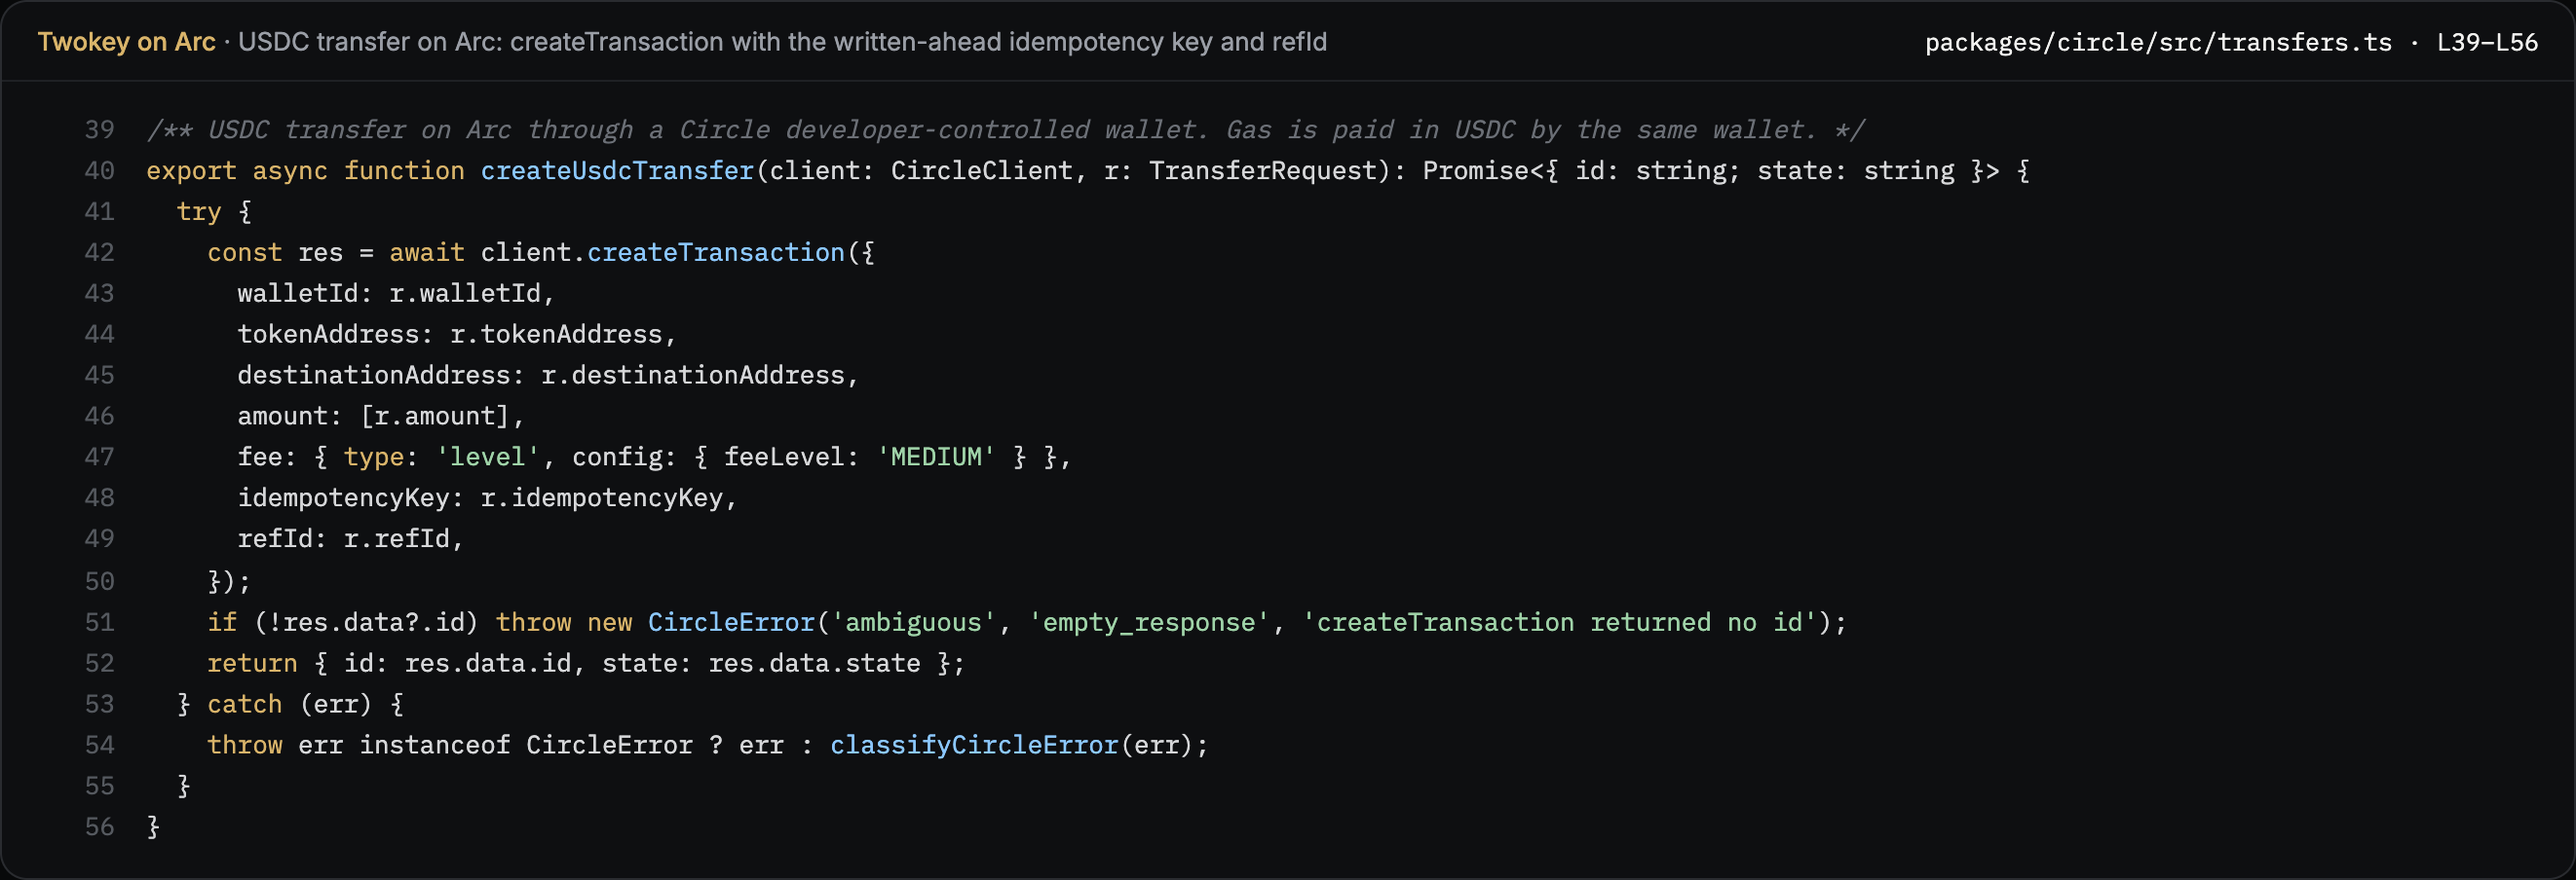
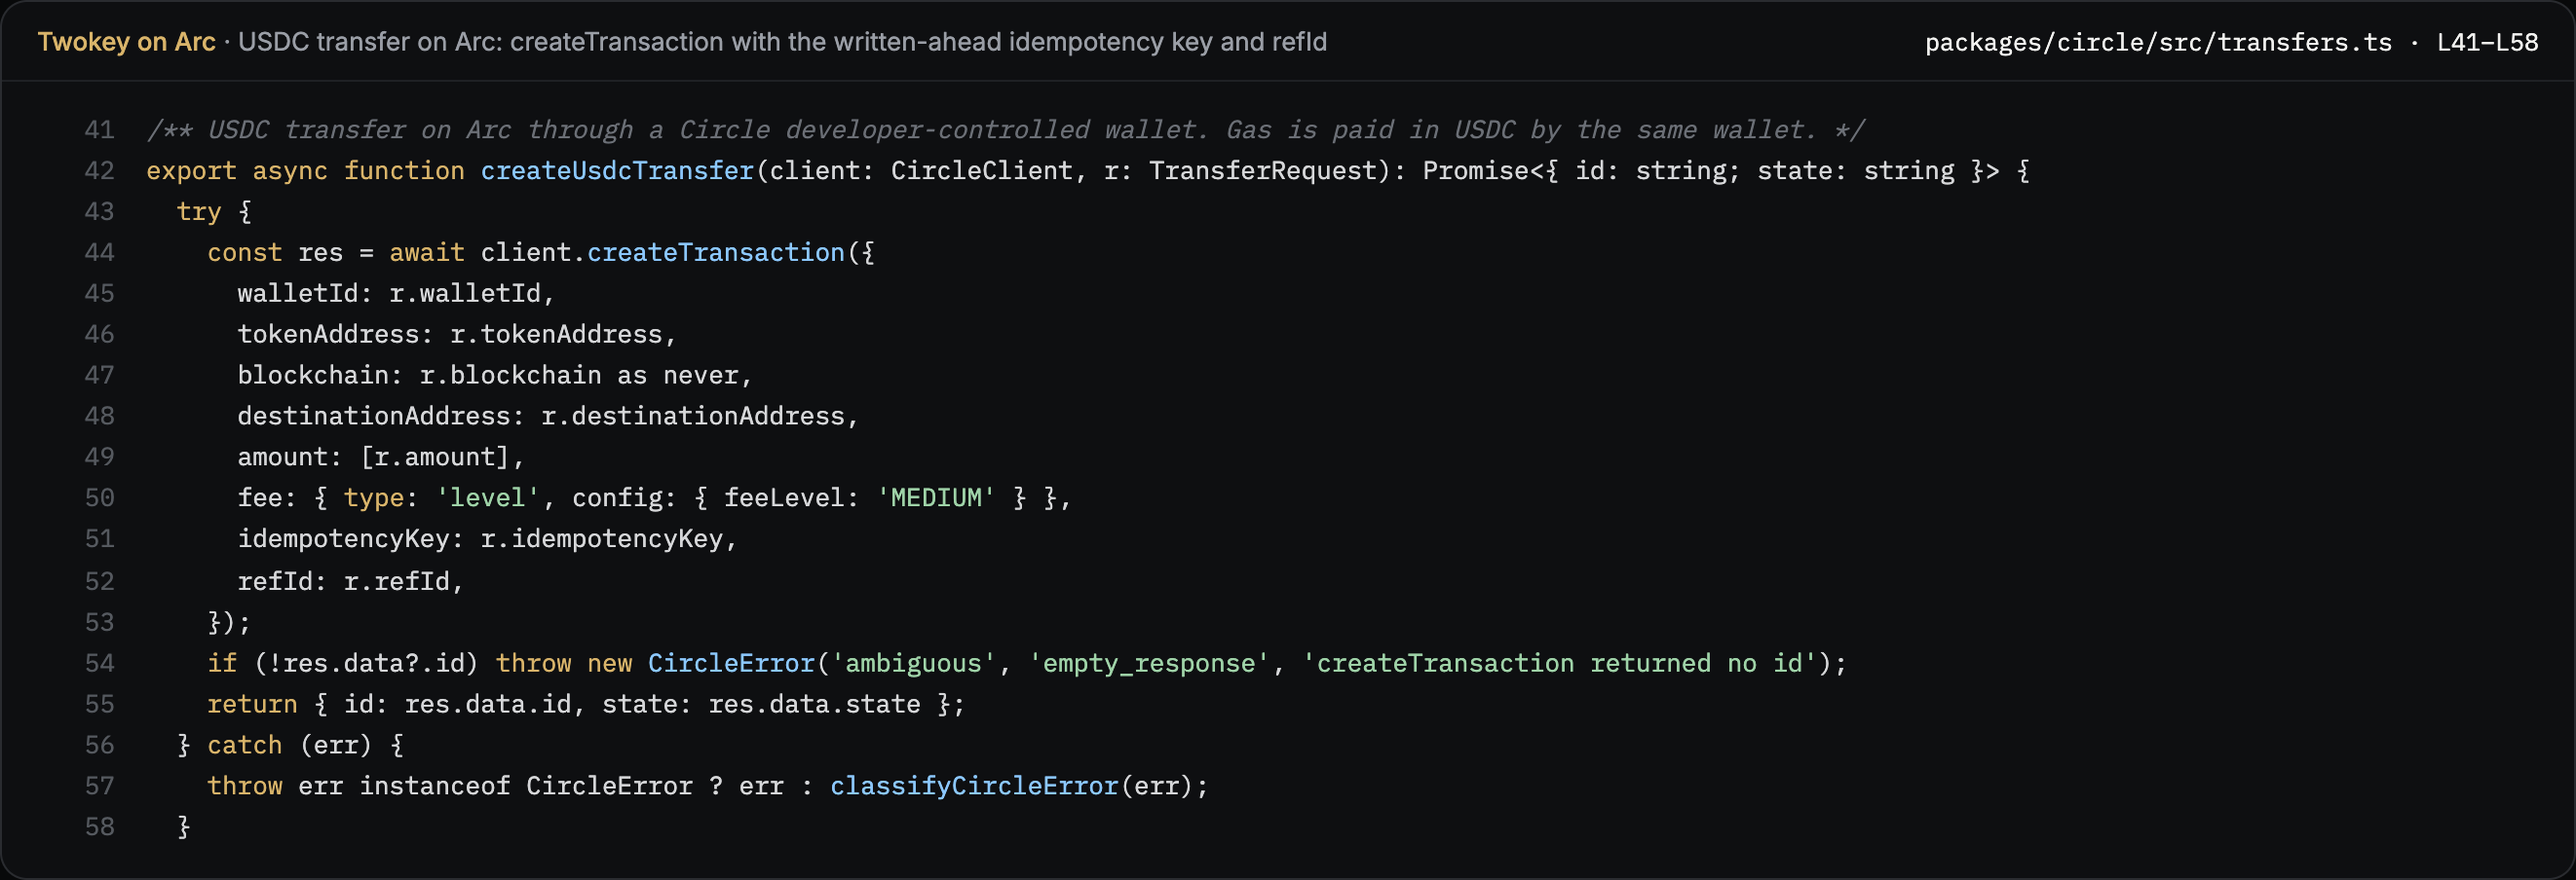
docs: live Arc Testnet evidence (smoke, demo-run x3, chaos), verify register, submission draft; regenerated transcript and shots

diff --git a/docs/CIRCLE_TRANSCRIPT.md b/docs/CIRCLE_TRANSCRIPT.md
@@ -6,7 +6,7 @@ Twokey is an approval layer for AI agents that move USDC. In this demo an accoun
 |---|---|---|
 | **Arc Testnet** (chain `5042002`) | The settlement rail for every payment. Gas is paid in USDC, and with sub-second finality a `COMPLETE` transfer is final, which the audit log records. | [`packages/circle/src/config.ts` L4–L11](https://github.com/PrabalParihar/twokey-arc/blob/main/packages/circle/src/config.ts#L4-L11) (chain id, `ARC-TESTNET`, RPC, explorer)<br>[`packages/circle/src/config.ts` L28–L38](https://github.com/PrabalParihar/twokey-arc/blob/main/packages/circle/src/config.ts#L28-L38) (testnet-only guard)<br>[`apps/web/lib/explorer.ts` L3](https://github.com/PrabalParihar/twokey-arc/blob/main/apps/web/lib/explorer.ts#L3) (explorer links) |
 | **USDC on Arc** (`0x3600…0000`, 6-dp ERC-20 view) | The asset being paid and also the gas token. Twokey reads one balance and never adds the 18-dp native view to the 6-dp ERC-20 view. | [`packages/money/src/usdc.ts` L10](https://github.com/PrabalParihar/twokey-arc/blob/main/packages/money/src/usdc.ts#L10) (address)<br>[`packages/money/src/usdc.ts` L28–L35](https://github.com/PrabalParihar/twokey-arc/blob/main/packages/money/src/usdc.ts#L28-L35) (exact 6-dp parsing, no floats)<br>[`packages/circle/src/balances.ts` L14–L19](https://github.com/PrabalParihar/twokey-arc/blob/main/packages/circle/src/balances.ts#L14-L19) (one balance, one view)<br>[`packages/circle/src/units.ts` L10–L17](https://github.com/PrabalParihar/twokey-arc/blob/main/packages/circle/src/units.ts#L10-L17) (Circle fee → 6 dp, rounded up) |
-| **Circle Wallets: developer-controlled wallets** (`@circle-fin/developer-controlled-wallets` 10.8.1) | The treasury wallet the agent pays from. The wallet set and wallets are created on `ARC-TESTNET`. Transfers go through `createTransaction` with an idempotency key written ahead, status through `getTransaction`, balance through `getWalletTokenBalance`, and reconciliation through `listTransactions`. Only the executor holds the credentials. | [`packages/circle/src/client.ts` L9–L19](https://github.com/PrabalParihar/twokey-arc/blob/main/packages/circle/src/client.ts#L9-L19) (`initiateDeveloperControlledWalletsClient`)<br>[`scripts/circle-setup.ts` L16](https://github.com/PrabalParihar/twokey-arc/blob/main/scripts/circle-setup.ts#L16) (`createWalletSet`)<br>[`scripts/circle-setup.ts` L20–L26](https://github.com/PrabalParihar/twokey-arc/blob/main/scripts/circle-setup.ts#L20-L26) (`createWallets` on `ARC-TESTNET`, EOA)<br>[`packages/circle/src/transfers.ts` L40–L56](https://github.com/PrabalParihar/twokey-arc/blob/main/packages/circle/src/transfers.ts#L40-L56) (`createTransaction` with USDC, `idempotencyKey`, `refId`)<br>[`packages/circle/src/transfers.ts` L90–L99](https://github.com/PrabalParihar/twokey-arc/blob/main/packages/circle/src/transfers.ts#L90-L99) (`getTransaction`)<br>[`packages/circle/src/transfers.ts` L102–L115](https://github.com/PrabalParihar/twokey-arc/blob/main/packages/circle/src/transfers.ts#L102-L115) (`listTransactions` for reconcile)<br>[`packages/circle/src/transfers.ts` L118–L130](https://github.com/PrabalParihar/twokey-arc/blob/main/packages/circle/src/transfers.ts#L118-L130) (`estimateTransferFee`)<br>[`packages/circle/src/balances.ts` L21–L24](https://github.com/PrabalParihar/twokey-arc/blob/main/packages/circle/src/balances.ts#L21-L24) (`getWalletTokenBalance`)<br>[`apps/executor/src/circle-port.ts` L14–L26](https://github.com/PrabalParihar/twokey-arc/blob/main/apps/executor/src/circle-port.ts#L14-L26) (the executor-only adapter) |
+| **Circle Wallets: developer-controlled wallets** (`@circle-fin/developer-controlled-wallets` 10.8.1) | The treasury wallet the agent pays from. The wallet set and wallets are created on `ARC-TESTNET`. Transfers go through `createTransaction` with an idempotency key written ahead, status through `getTransaction`, balance through `getWalletTokenBalance`, and reconciliation through `listTransactions`. Only the executor holds the credentials. | [`packages/circle/src/client.ts` L9–L19](https://github.com/PrabalParihar/twokey-arc/blob/main/packages/circle/src/client.ts#L9-L19) (`initiateDeveloperControlledWalletsClient`)<br>[`scripts/circle-setup.ts` L16](https://github.com/PrabalParihar/twokey-arc/blob/main/scripts/circle-setup.ts#L16) (`createWalletSet`)<br>[`scripts/circle-setup.ts` L20–L26](https://github.com/PrabalParihar/twokey-arc/blob/main/scripts/circle-setup.ts#L20-L26) (`createWallets` on `ARC-TESTNET`, EOA)<br>[`packages/circle/src/transfers.ts` L42–L59](https://github.com/PrabalParihar/twokey-arc/blob/main/packages/circle/src/transfers.ts#L42-L59) (`createTransaction` with USDC, `idempotencyKey`, `refId`)<br>[`packages/circle/src/transfers.ts` L93–L102](https://github.com/PrabalParihar/twokey-arc/blob/main/packages/circle/src/transfers.ts#L93-L102) (`getTransaction`)<br>[`packages/circle/src/transfers.ts` L108–L123](https://github.com/PrabalParihar/twokey-arc/blob/main/packages/circle/src/transfers.ts#L108-L123) (`listTransactions` for reconcile)<br>[`packages/circle/src/transfers.ts` L126–L139](https://github.com/PrabalParihar/twokey-arc/blob/main/packages/circle/src/transfers.ts#L126-L139) (`estimateTransferFee`)<br>[`packages/circle/src/balances.ts` L21–L24](https://github.com/PrabalParihar/twokey-arc/blob/main/packages/circle/src/balances.ts#L21-L24) (`getWalletTokenBalance`)<br>[`apps/executor/src/circle-port.ts` L14–L26](https://github.com/PrabalParihar/twokey-arc/blob/main/apps/executor/src/circle-port.ts#L14-L26) (the executor-only adapter) |
 | **The guard in front of Circle** | Before any `createTransaction` runs, the executor takes the org lock, reads a fresh balance from Circle, classifies the payment a third time, rebuilds and re-verifies the approval seal, and commits the attempt row with its idempotency key. Only then does it call Circle. | [`packages/core/src/executor.ts` L90–L182](https://github.com/PrabalParihar/twokey-arc/blob/main/packages/core/src/executor.ts#L90-L182) (re-classify + seal check + write-ahead)<br>[`packages/core/src/executor.ts` L185–L235](https://github.com/PrabalParihar/twokey-arc/blob/main/packages/core/src/executor.ts#L185-L235) (the Circle call site)<br>[`packages/core/src/executor.ts` L238–L288](https://github.com/PrabalParihar/twokey-arc/blob/main/packages/core/src/executor.ts#L238-L288) (poll to `COMPLETE` + tx hash)<br>[`packages/core/src/executor.ts` L294–L337](https://github.com/PrabalParihar/twokey-arc/blob/main/packages/core/src/executor.ts#L294-L337) (same-key reconcile)<br>[`apps/executor/src/jobs/execute-payment.ts` L9–L12](https://github.com/PrabalParihar/twokey-arc/blob/main/apps/executor/src/jobs/execute-payment.ts#L9-L12) (pg-boss job)<br>[`apps/executor/src/jobs/poll-attempt.ts` L14–L33](https://github.com/PrabalParihar/twokey-arc/blob/main/apps/executor/src/jobs/poll-attempt.ts#L14-L33) (pg-boss job) |
 | **Circle Faucet / testnet tokens** | Funds the demo treasury with testnet USDC. | [`scripts/circle-setup.ts` L40](https://github.com/PrabalParihar/twokey-arc/blob/main/scripts/circle-setup.ts#L40) (`requestTestnetTokens`)<br>or https://faucet.circle.com |
 | **Circle webhooks (v2)** | Push updates on transaction state. Web stores the raw event (deduplicated on `notificationId`). The executor, which holds the API key, verifies `X-Circle-Signature` with the key from `getNotificationSignature` before acting. Polling stays as the fallback. | [`apps/web/app/api/circle/webhook/route.ts` L10–L36](https://github.com/PrabalParihar/twokey-arc/blob/main/apps/web/app/api/circle/webhook/route.ts#L10-L36) (receive + dedupe)<br>[`packages/circle/src/webhooks.ts` L21–L33](https://github.com/PrabalParihar/twokey-arc/blob/main/packages/circle/src/webhooks.ts#L21-L33) (ECDSA P-256 / SHA-256)<br>[`apps/executor/src/jobs/process-webhook.ts` L12–L25](https://github.com/PrabalParihar/twokey-arc/blob/main/apps/executor/src/jobs/process-webhook.ts#L12-L25) (verify, then act) |

diff --git a/docs/VERIFY.md b/docs/VERIFY.md
@@ -4,14 +4,20 @@ PRD Appendix B listed eight [VERIFY] items. This is what has been checked and ho
 
 | # | Item | Status | Evidence |
 |---|---|---|---|
-| 1 | `requestTestnetTokens` accepts `ARC-TESTNET` | **Typed: yes.** `TestnetBlockchain` includes `ARC-TESTNET` in SDK 10.8.1. Live: pending the first `pnpm circle:setup`. | SDK `.d.ts`; `scripts/circle-setup.ts` falls back to faucet.circle.com |
-| 2 | `estimateTransferFee` field name and fee units | **Field: `amount: string[]`** (SDK 10.8.1 `.d.ts`; the circlefin skill's `amounts` is the REST name). Units: `networkFee` is a decimal in the native unit, which on Arc is USDC. It is converted to 6 dp and rounded up. Live value pending. | `packages/circle/src/transfers.ts`, `units.ts` |
-| 3 | Replaying `createTransaction` with the same `idempotencyKey` returns the original transaction | Pending live. `pnpm chaos` scenario (c) replays the same key after Circle accepted it and asserts exactly one transfer for the `refId`. | `scripts/chaos-retry.ts` |
-| 4 | Typical Arc Testnet transfer fee | Pending live (`pnpm circle:smoke` prints it). `DEFAULT_FEE_ESTIMATE_USDC=0.010000` is used until then. | |
+| 1 | `requestTestnetTokens` accepts `ARC-TESTNET` | **Typed yes; live: 403 Forbidden** for this account. The treasury was funded through https://faucet.circle.com (20 USDC). | `pnpm circle:setup` output, Oct 27 |
+| 2 | `estimateTransferFee` field name and fee units | **`amount: string[]`** (the skill's `amounts` is wrong for SDK 10.8.1). **Live finding: the API requires `blockchain` alongside `tokenAddress`**, although the SDK types mark it optional; without it you get 400 "'blockchain' field may not be empty". `networkFee` is a decimal in USDC; Twokey rounds it up to 6 dp. | `packages/circle/src/transfers.ts` |
+| 3 | Replaying `createTransaction` with the same `idempotencyKey` returns the original transaction | **Confirmed live.** Before the refId fix, reconcile could never find a transfer by listing, so every ambiguous attempt was resubmitted with the same key: 22/22 intents still had exactly one Circle transfer per `refId`. | chaos runs, Oct 27 |
+| 4 | Typical Arc Testnet transfer fee | **≈ 0.0019–0.0021 USDC** at fee level MEDIUM (smoke transfer: 0.001888). | `pnpm circle:smoke`, `docs/demo-runs/` |
 | 5 | App Kit chain name for Arc mainnet | Out of scope (M2). | |
 | 6 | Contract-execution method name | **Confirmed:** `createContractExecutionTransaction` exists in SDK 10.8.1 (M2). | SDK `.d.ts` |
 | 7 | Circle-side limits for developer-controlled wallets | Not found in the SDK surface. Documented spending policies are for mainnet Agent Wallets. | |
-| 8 | Webhook helpers | **Confirmed:** `getNotificationSignature(keyId)` returns `{ id, algorithm, publicKey }`. Verification is ECDSA SHA-256 over the raw body. The key encoding still needs checking on a live webhook. | `packages/circle/src/webhooks.ts` |
+| 8 | Webhook helpers | `getNotificationSignature(keyId)` returns `{ id, algorithm, publicKey }`. **Not exercised live:** no webhook subscription is registered yet, so polling did all the work. | `packages/circle/src/webhooks.ts` |
+
+More live findings (fixed, Oct 27):
+- `listTransactions` **refuses `blockchain` together with `walletIds`** (400). Twokey now sends `walletIds` only.
+- `listTransactions` **omits `refId`**; only `getTransaction` carries it. Reconcile now re-reads candidates (same destination and amount) with `getTransaction` to match `refId`.
+- `getWalletTokenBalance` on Arc lists USDC **twice**: native (18 dp, `isNative: true`) and the ERC-20 at `0x3600…` (6 dp), with the same amount. Twokey takes the ERC-20 entry only and never sums them.
+- Audit `seq` was a global primary key. A second org in the same database collided, so the key is now `(org_id, seq)` (migration 0002).
 
 Also found while building:
 - The SDK's `TransactionState` has no `WAITING`.
@@ -53,3 +59,25 @@ Bugs found and fixed by these runs:
 - The mobile grid overflowed at 375 px.
 - The web service had no pre-deploy migration. Production returned 500s until the schema existed; `preDeployCommand: pnpm db:migrate` fixes it.
 - Error logs repeated SQL params. They now log the cause only.
+
+## Live on Arc Testnet (Circle developer-controlled wallets), Oct 27, 2026
+- **Wallets:** set `3ca5bcaa-260c-5e2d-8ac1-9d0c4c5954b2`; treasury `0xcdb07ea35f4b3cb6bc4fea4e0154059d3a151897` (see `config/wallets.arc-testnet.json`).
+- **Smoke transfer (`pnpm circle:smoke`):** 0.10 USDC → Oceanic, COMPLETE in 4.0 s, fee 0.001888.
+  - tx [`0xa9bb6320…d522e7`](https://explorer.testnet.arc.io/tx/0xa9bb632019bcdb723d60ac499c6d5001f2c7c416676a30beabab1678d4d522e7)
+  - balance 20.000000 → 19.898112
+- **`pnpm demo:run`: 3 consecutive passes, 7/7 steps each.** Results are in `docs/demo-runs/`. Every tx receipt was also checked on the Arc RPC (status `0x1`).
+
+  | Run | In-mandate (Oceanic 0.25) | Approved (Brightline 0.75) |
+  |---|---|---|
+  | 1 | [`0x05c9710e…`](https://explorer.testnet.arc.io/tx/0x05c9710eb7262b4c5539be23d6238ec6faee25a238a2e9c0813111690c4e7c9a), PAID in 5.2 s | [`0xf08e9996…`](https://explorer.testnet.arc.io/tx/0xf08e999681881ee022731027866f084a239875e3437e99b9c26adb055175da2c) |
+  | 2 | [`0xf72fbabf…`](https://explorer.testnet.arc.io/tx/0xf72fbabf5c42ba226e50f72b6fd20c58a0d204b96ddd97834a4755fc03eeae80), 6.2 s | [`0x154e9b0d…`](https://explorer.testnet.arc.io/tx/0x154e9b0d09de3feb090f5a3519d7317f63b940446e3bbcd0f90dbae1d6f44529) |
+  | 3 | [`0xc95fa378…`](https://explorer.testnet.arc.io/tx/0xc95fa37825795165d49dd8cef7574ec0d50fdcb2230f97fbc40364ba6e22c92e), 4.1 s | [`0xf7989948…`](https://explorer.testnet.arc.io/tx/0xf7989948d1777318fb810d8ddccae1ef6b286bb242fa0c4e03ebdb36940bd292) |
+
+  In each run the pinned-payee request was blocked and the drift voided the approval (no Circle call). The balance fell by exactly amount + fee, give or take 1 micro-USDC of fee rounding.
+- **`pnpm chaos --runs 5`: 20/20 paid exactly once, 0 double payments.** Each run covers:
+  - a: 5 parallel requests with one key, plus a raced execute
+  - b: crash before the Circle call
+  - c: crash after Circle accepted
+  - d: timeout before Circle
+
+  The PRD asks for 20 runs per scenario; this is 5. Re-run `pnpm chaos --runs 20` for the full count (about 1 USDC).

diff --git a/docs/SUBMISSION.md b/docs/SUBMISSION.md
@@ -15,7 +15,7 @@ The two-key rule for AI agents that move USDC: routine payments run on their own
 
 ## What we built (testnet, open for review)
 - **Repo:** https://github.com/PrabalParihar/twokey-arc «make public before submitting»
-- **Live demo:** «Railway URL»
+- **Live demo:** https://twokey.si (Railway: web + executor + Postgres, Arc Testnet)
 - **Video (≤ 3 min):** «link»
 
 How a payment moves:
@@ -50,16 +50,24 @@ Circle's Agent Stack spending policies (caps and allow/block lists, set via the 
 
 Twokey can sit in front of the same wallet even when Circle-side caps are also set, as defense in depth.
 
-## Evidence (testnet)
-- `pnpm test`: «N» tests. The policy engine has 100% branch coverage. There are integration tests on Postgres for:
+## Evidence (testnet, Oct 27, 2026)
+- `pnpm test`: **169 tests pass** (unit + Postgres integration). The policy engine has 100% branch coverage. Integration tests cover:
   - idempotency
   - the daily-cap race
   - seal mismatch (409)
   - drift void
   - write-ahead
   - crash and timeout recovery
-- `pnpm demo:run`, 3 consecutive passes against Arc Testnet with real Circle calls. Tx hashes: «hash 1», «hash 2», … ([explorer](https://explorer.testnet.arc.io)).
-- `pnpm chaos`: «runs» crash and timeout runs on testnet, **0 double payments**.
+  - agents can't approve
+  - web refuses Circle credentials
+- **Smoke transfer on Arc Testnet via Circle Wallets:** COMPLETE in 4.0 s, fee 0.001888 USDC, tx [`0xa9bb6320…`](https://explorer.testnet.arc.io/tx/0xa9bb632019bcdb723d60ac499c6d5001f2c7c416676a30beabab1678d4d522e7).
+- **`pnpm demo:run`: 3 consecutive passes** against Arc Testnet with real Circle calls. In-mandate payments were PAID in 4–6 s; approved payments went out only after the sealed approval.
+  - Tx hashes: [`0x05c9…`](https://explorer.testnet.arc.io/tx/0x05c9710eb7262b4c5539be23d6238ec6faee25a238a2e9c0813111690c4e7c9a), [`0xf08e…`](https://explorer.testnet.arc.io/tx/0xf08e999681881ee022731027866f084a239875e3437e99b9c26adb055175da2c), [`0xf72f…`](https://explorer.testnet.arc.io/tx/0xf72fbabf5c42ba226e50f72b6fd20c58a0d204b96ddd97834a4755fc03eeae80), [`0x154e…`](https://explorer.testnet.arc.io/tx/0x154e9b0d09de3feb090f5a3519d7317f63b940446e3bbcd0f90dbae1d6f44529), [`0xc95f…`](https://explorer.testnet.arc.io/tx/0xc95fa37825795165d49dd8cef7574ec0d50fdcb2230f97fbc40364ba6e22c92e), [`0xf798…`](https://explorer.testnet.arc.io/tx/0xf7989948d1777318fb810d8ddccae1ef6b286bb242fa0c4e03ebdb36940bd292)
+- **Chaos suite on testnet:** 20 crash and timeout runs, **20/20 paid exactly once, 0 double payments**. This also confirms that Circle's idempotency key replay returns the original transfer.
+- **What the live runs taught us about the Circle API:** see [VERIFY.md](VERIFY.md).
+  - `blockchain` is required next to `tokenAddress`, but refused next to `walletIds`.
+  - The list endpoint omits `refId`.
+  - Arc USDC shows up as both a native entry and an ERC-20 entry.
 
 ## Team
 **Prabal Pratap Singh**, solo founder (Lucknow, India). Background in smart contracts, DeFi and AI agents. Twokey's product site is https://twokey.online. «Add 1–2 lines of prior shipped work and links: GitHub, previous projects.»
